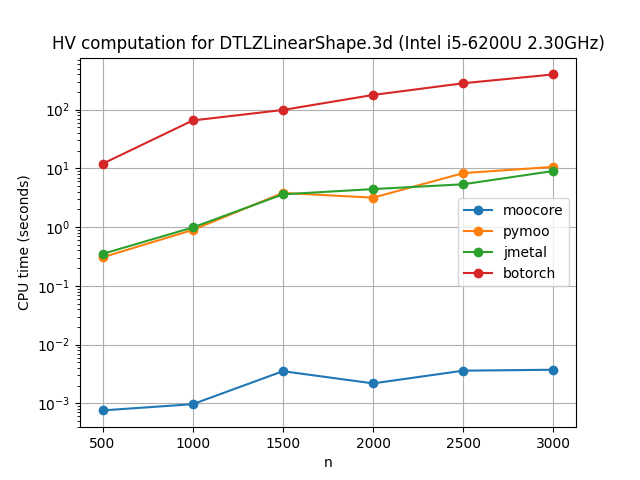
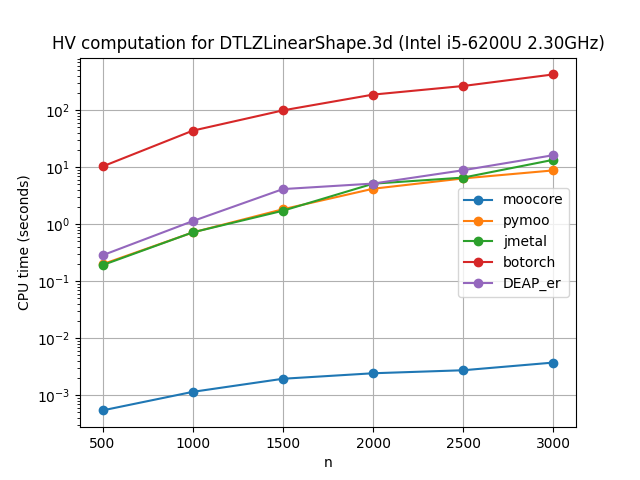
python/doc/source/index.rst: Benchmark DEAP-er.

diff --git a/python/doc/source/index.rst b/python/doc/source/index.rst
@@ -60,7 +60,7 @@ performance measures, performance assessment
         Detailed examples and tutorials.
 
 
-The following two images compare the speed of computing the hypervolume indicator (:ref:`hypervolume_metric`) in 3D and 4D using ``moocore``, `pymooo <https://pymoo.org/>`_, `BoTorch <https://botorch.org/>`_ and `jMetalPy <https://jmetal.github.io/jMetalPy/index.html>`_.
+The following two images compare the speed of computing the :ref:`hypervolume indicator <hypervolume_metric>` in 3D and 4D using ``moocore``, `pymooo <https://pymoo.org/>`_, `BoTorch <https://botorch.org/>`_, `DEAP-er <https://deap-er.readthedocs.io/en/latest/>`_ and `jMetalPy <https://jmetal.github.io/jMetalPy/index.html>`_.
 
 |pic1| |pic2|
 
